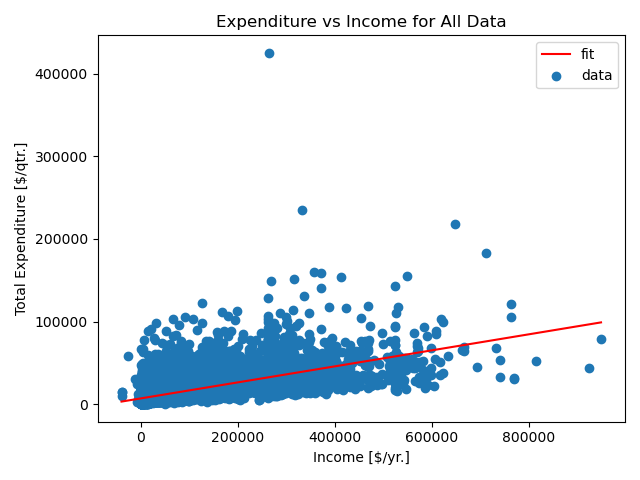
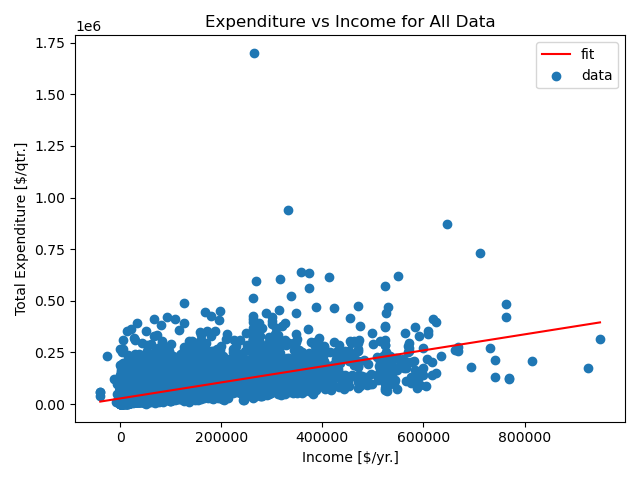
Multiple expenditure by 4

diff --git a/HW2/SS340_HW2.py b/HW2/SS340_HW2.py
@@ -62,7 +62,7 @@ print(data_19_describe)
 data_19["hiincome"] = data_19["fincbtxm"] > data_19["fincbtxm"].median()
 
 # total expenditure variable, sum of CQ and PQ expenditures
-data_19["totexp"] = data_19[["totexpcq", "totexppq"]].sum(axis=1)
+data_19["totexp"] = data_19[["totexpcq", "totexppq"]].sum(axis=1)*4
 
 # linear regression: all
 run_regression(data_19["fincbtxm"].to_numpy(),
